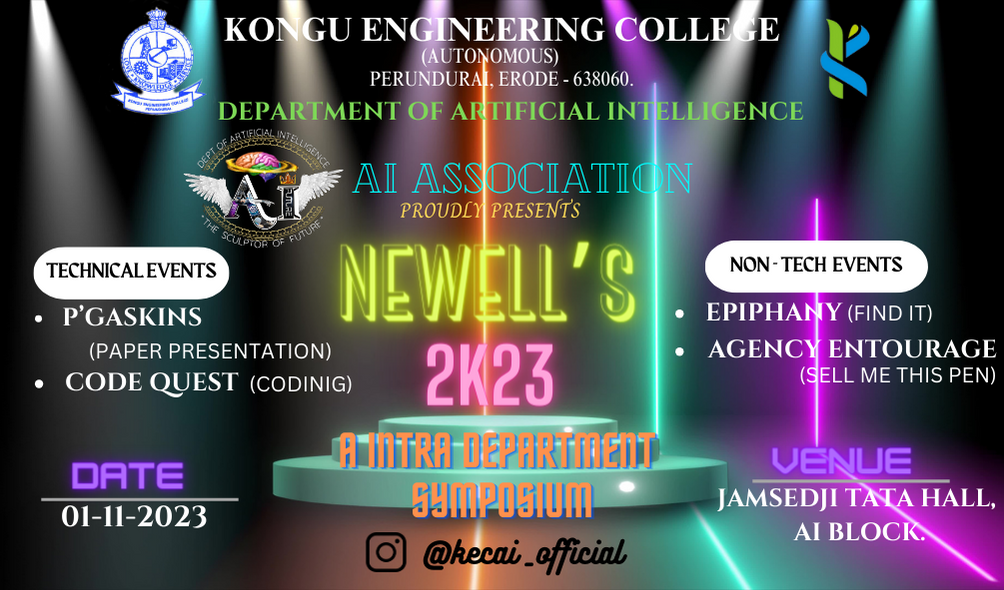
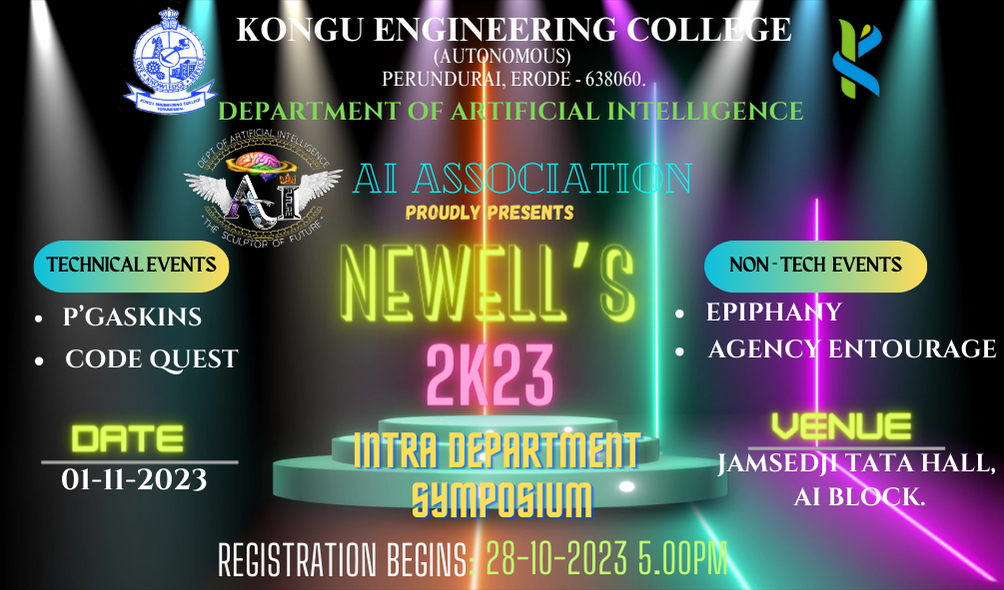
Webpage is ready to host

diff --git a/src/Components/Landing.jsx b/src/Components/Landing.jsx
@@ -12,7 +12,7 @@ function Landing(){
                         <p className="md:text-3xl sm:text-2xl sm:mt-10 text-1xl font-bold  p-2">AI Association</p>
                         <p className="md:text-4xl sm:text-3xl sm:mt-10 text-xl font-bold  p-2">Proudly Presents</p>
                         <div className="relative">
-                            <h1 className="md:text-7xl sm:text-6xl sm:mt-10 text-4xl font-bold md:py-6 text-[var(--red)] monoton-font">Newell 2K23!</h1>
+                            <h1 className="md:text-7xl sm:text-6xl sm:mt-10 text-4xl font-bold md:py-6 text-[var(--red)] monoton-font">Newell's 2K23!</h1>
                         </div>
                         <p className="md:text-2xl text-xl font-bolder text-white-500 pb-5">November 1,2023</p>
                         <TypeAnimation className="md:text-5xl font-mono sm:text-4xl text-xl font-bold"
@@ -27,7 +27,7 @@ function Landing(){
                                 <button className="bg-[#ff2a19] text-white text-lg w-[200px] rounded-md font-medium my-6 mx-auto py-3">Register soon</button>
                             </Link>
                         </div>
-                        <p className="md:text-lg text-sm text-white">Last date to Register October 31,2023 5PM.</p>
+                        <p className="md:text-lg text-sm text-white">Last date to Register October 30,2023 6PM.</p>
 
                     </div>
                 </div>

diff --git a/src/Components/NavBar.js b/src/Components/NavBar.js
@@ -12,7 +12,7 @@ const NavBar = () => {
         <div className="flex w-full justify-between items-center flex-wrap h-42 relative ">
             <div className="max-w-[1240px] mx-auto text-white flex w-full justify-between items-center h-24 px-[calc(100%*0.05)]">
 
-                <Link to="/"><h1 className="w-full text-3xl font-bold text-[var(--red)]">Newell 2K23</h1></Link>
+                <Link to="/"><h1 className="w-full text-3xl font-bold text-[var(--red)]">Newell's 2K23</h1></Link>
 
                 <ul className="hidden md:flex flex-end">
                     <li className="p-4"><Link to="/">Home</Link></li>

diff --git a/src/Components/Model.jsx b/src/Components/Model.jsx
@@ -27,7 +27,6 @@ const Modal = ({ setIsOpen,handleClick,Content }) => {
             Gpay Number: <span className="text-[var(--blue)]">9994538549</span>
           </p> */}
           <p className='py-2 font-bold  text-2xl text-[var(--red)] text-start'>Any Doubts:</p>
-          <p className='text-[var(--blue)] text-start'>Mr . B. Dinesh Kumar  - 7402282440</p>
           <p className='text-[var(--blue)] text-start'>Mr . K . Vasantharan  - 8883615350 </p>
           <p className='text-[var(--blue)] text-start'>Mr . B . Kaushik  - 8248768514 </p>
           <div className="flex justify-center mt-8">

diff --git a/src/App.js b/src/App.js
@@ -8,7 +8,7 @@ import Home from './Pages/Home'
 import Event from './Pages/event'
 function App() {
   useEffect(() => {
-    document.title = 'Newell 2K23';
+    document.title = 'Newell\'s 2K23';
   }, []);
 
   return (

diff --git a/public/index.html b/public/index.html
@@ -41,3 +41,4 @@
     -->
   </body>
 </html>
+ 
